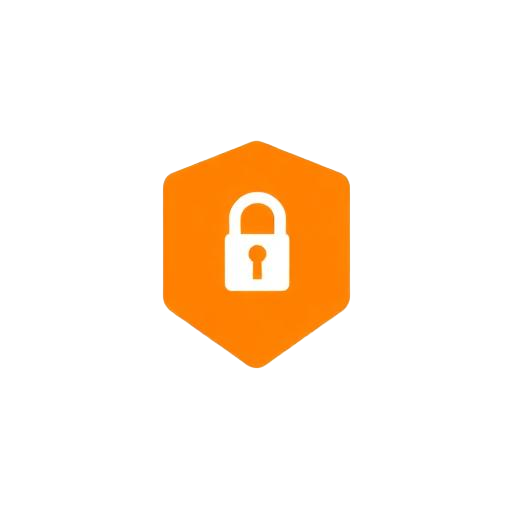
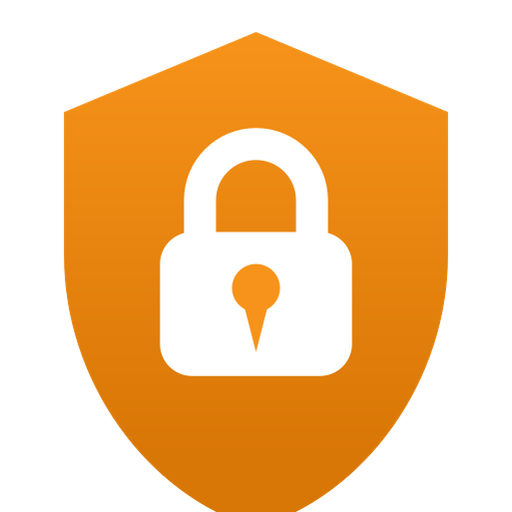
Revamps branding assets and updates navigation links
Refreshes all favicon and logo assets for improved visual identity,
introducing a new shield-and-lock design with gradient accents.

Updates navigation structure: changes sidebar and header home links to
root path, adds explicit "Home" and "Board" entries to mobile nav, and
removes analytics. Enhances header with visible home links for both
mobile and desktop for better UX.

Improves logo rendering for consistency with new brand style.

diff --git a/sbtc-escrow/frontend/src/components/shared/Logo.tsx b/sbtc-escrow/frontend/src/components/shared/Logo.tsx
@@ -31,41 +31,39 @@ export function Logo({ size = 'md', className = '' }: LogoProps) {
       role="img"
       aria-label="sBTC Escrow logo"
     >
-      {/* Shield shape */}
+      <defs>
+        <linearGradient id="shield-grad" x1="16" y1="2" x2="16" y2="28" gradientUnits="userSpaceOnUse">
+          <stop offset="0%" stopColor="currentColor" />
+          <stop offset="100%" stopColor="currentColor" stopOpacity="0.75" />
+        </linearGradient>
+      </defs>
+      {/* Shield */}
       <path
         d="M16 2L4 7v9c0 7.73 5.12 14.95 12 17 6.88-2.05 12-9.27 12-17V7L16 2z"
-        fill="currentColor"
-        opacity="0.12"
+        fill="url(#shield-grad)"
       />
+      {/* Lock shackle — thick, bold arc */}
       <path
-        d="M16 2L4 7v9c0 7.73 5.12 14.95 12 17 6.88-2.05 12-9.27 12-17V7L16 2z"
-        stroke="currentColor"
-        strokeWidth="1.5"
-        strokeLinejoin="round"
-        fill="none"
-      />
-      {/* Lock body */}
-      <rect
-        x="11"
-        y="14"
-        width="10"
-        height="8"
-        rx="1.5"
-        fill="currentColor"
-        opacity="0.9"
-      />
-      {/* Lock shackle */}
-      <path
-        d="M13 14v-3a3 3 0 0 1 6 0v3"
-        stroke="currentColor"
-        strokeWidth="1.5"
+        d="M12.5 15v-2.5a3.5 3.5 0 1 1 7 0V15"
+        stroke="hsl(var(--background))"
+        strokeWidth="2"
         strokeLinecap="round"
         fill="none"
       />
-      {/* Bitcoin B keyhole */}
-      <path
-        d="M15.2 16.5h1.3c.55 0 1 .35 1 .8s-.45.8-1 .8h-1.3v-1.6zm0 1.6h1.3c.55 0 1 .35 1 .8s-.45.8-1 .8h-1.3v-1.6z"
+      {/* Lock body — chunky rounded rect */}
+      <rect
+        x="10"
+        y="14.5"
+        width="12"
+        height="9"
+        rx="2"
         fill="hsl(var(--background))"
+      />
+      {/* Keyhole — Bitcoin-orange accent circle + drop */}
+      <circle cx="16" cy="18" r="1.5" fill="currentColor" />
+      <path
+        d="M15.1 18.5L16 22l.9-3.5"
+        fill="currentColor"
       />
     </svg>
   );

diff --git a/sbtc-escrow/frontend/src/components/layout/Header.tsx b/sbtc-escrow/frontend/src/components/layout/Header.tsx
@@ -1,13 +1,31 @@
 import React from 'react';
+import { Link } from 'react-router-dom';
 import { SidebarTrigger } from '@/components/ui/sidebar';
 import { WalletButton } from '@/components/shared/WalletButton';
 import { ThemeToggle } from '@/components/shared/ThemeToggle';
+import { Logo } from '@/components/shared/Logo';
+import { Home } from 'lucide-react';
 
 export function Header() {
   return (
     <header className="sticky top-0 z-30 flex h-14 items-center gap-4 border-b border-border bg-card px-4">
       <SidebarTrigger className="shrink-0" />
+      <Link
+        to="/"
+        className="flex items-center gap-2 text-muted-foreground hover:text-foreground transition-colors md:hidden"
+        aria-label="Back to home"
+      >
+        <Logo size="sm" className="text-accent-warm" />
+      </Link>
       <div className="flex-1" />
+      <Link
+        to="/"
+        className="hidden md:flex items-center gap-1.5 text-xs text-muted-foreground hover:text-foreground transition-colors rounded-md px-2 py-1.5 hover:bg-accent/50"
+        aria-label="Back to home"
+      >
+        <Home className="h-3.5 w-3.5" />
+        <span>Home</span>
+      </Link>
       <ThemeToggle />
       <WalletButton />
     </header>

diff --git a/sbtc-escrow/frontend/src/components/layout/MobileNav.tsx b/sbtc-escrow/frontend/src/components/layout/MobileNav.tsx
@@ -1,14 +1,14 @@
 import React from 'react';
 import { NavLink } from '@/components/NavLink';
-import { LayoutDashboard, PlusCircle, List, Activity, BarChart3, Settings } from 'lucide-react';
+import { Home, LayoutDashboard, PlusCircle, List, Activity, Settings } from 'lucide-react';
 import { useLocation } from 'react-router-dom';
 
 const items = [
-  { title: 'Home', url: '/dashboard', icon: LayoutDashboard },
+  { title: 'Home', url: '/', icon: Home },
+  { title: 'Board', url: '/dashboard', icon: LayoutDashboard },
   { title: 'Create', url: '/create', icon: PlusCircle },
   { title: 'Escrows', url: '/escrows', icon: List },
   { title: 'Activity', url: '/activity', icon: Activity },
-  { title: 'Analytics', url: '/analytics', icon: BarChart3 },
   { title: 'Settings', url: '/settings', icon: Settings },
 ];
 

diff --git a/sbtc-escrow/frontend/src/components/layout/AppSidebar.tsx b/sbtc-escrow/frontend/src/components/layout/AppSidebar.tsx
@@ -57,7 +57,7 @@ export function AppSidebar() {
   return (
     <Sidebar collapsible="icon">
       <SidebarHeader className="border-b border-sidebar-border px-4 py-3">
-        <NavLink to="/dashboard" className="flex items-center gap-2 no-underline">
+        <NavLink to="/" className="flex items-center gap-2 no-underline">
           <Logo size="md" className="text-accent-warm shrink-0" />
           {!collapsed && (
             <span className="font-semibold text-foreground text-sm tracking-tight">
